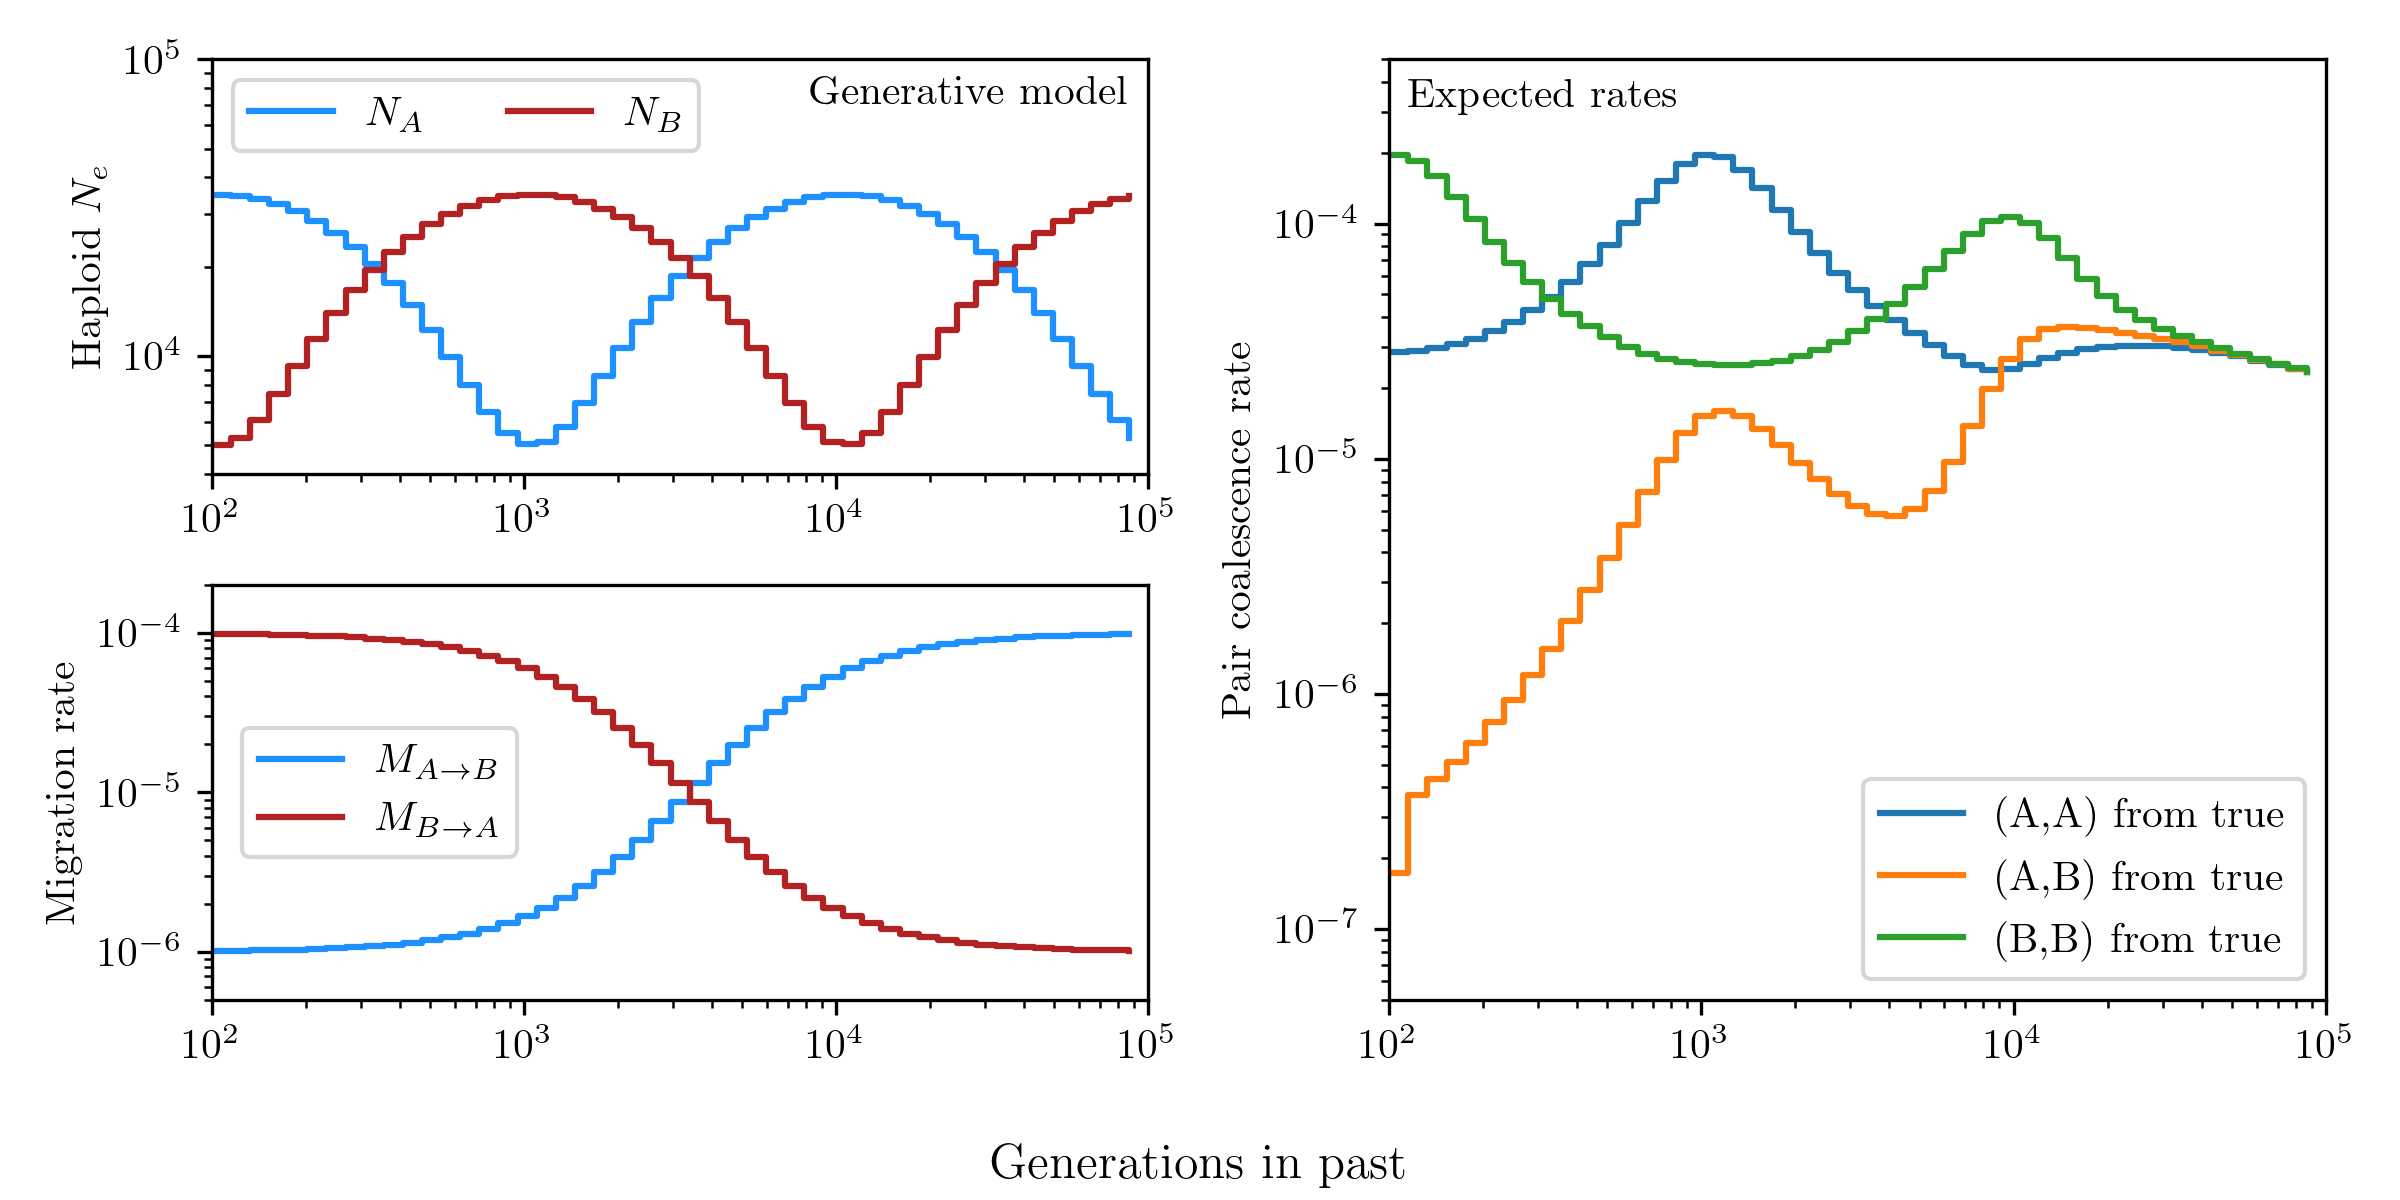
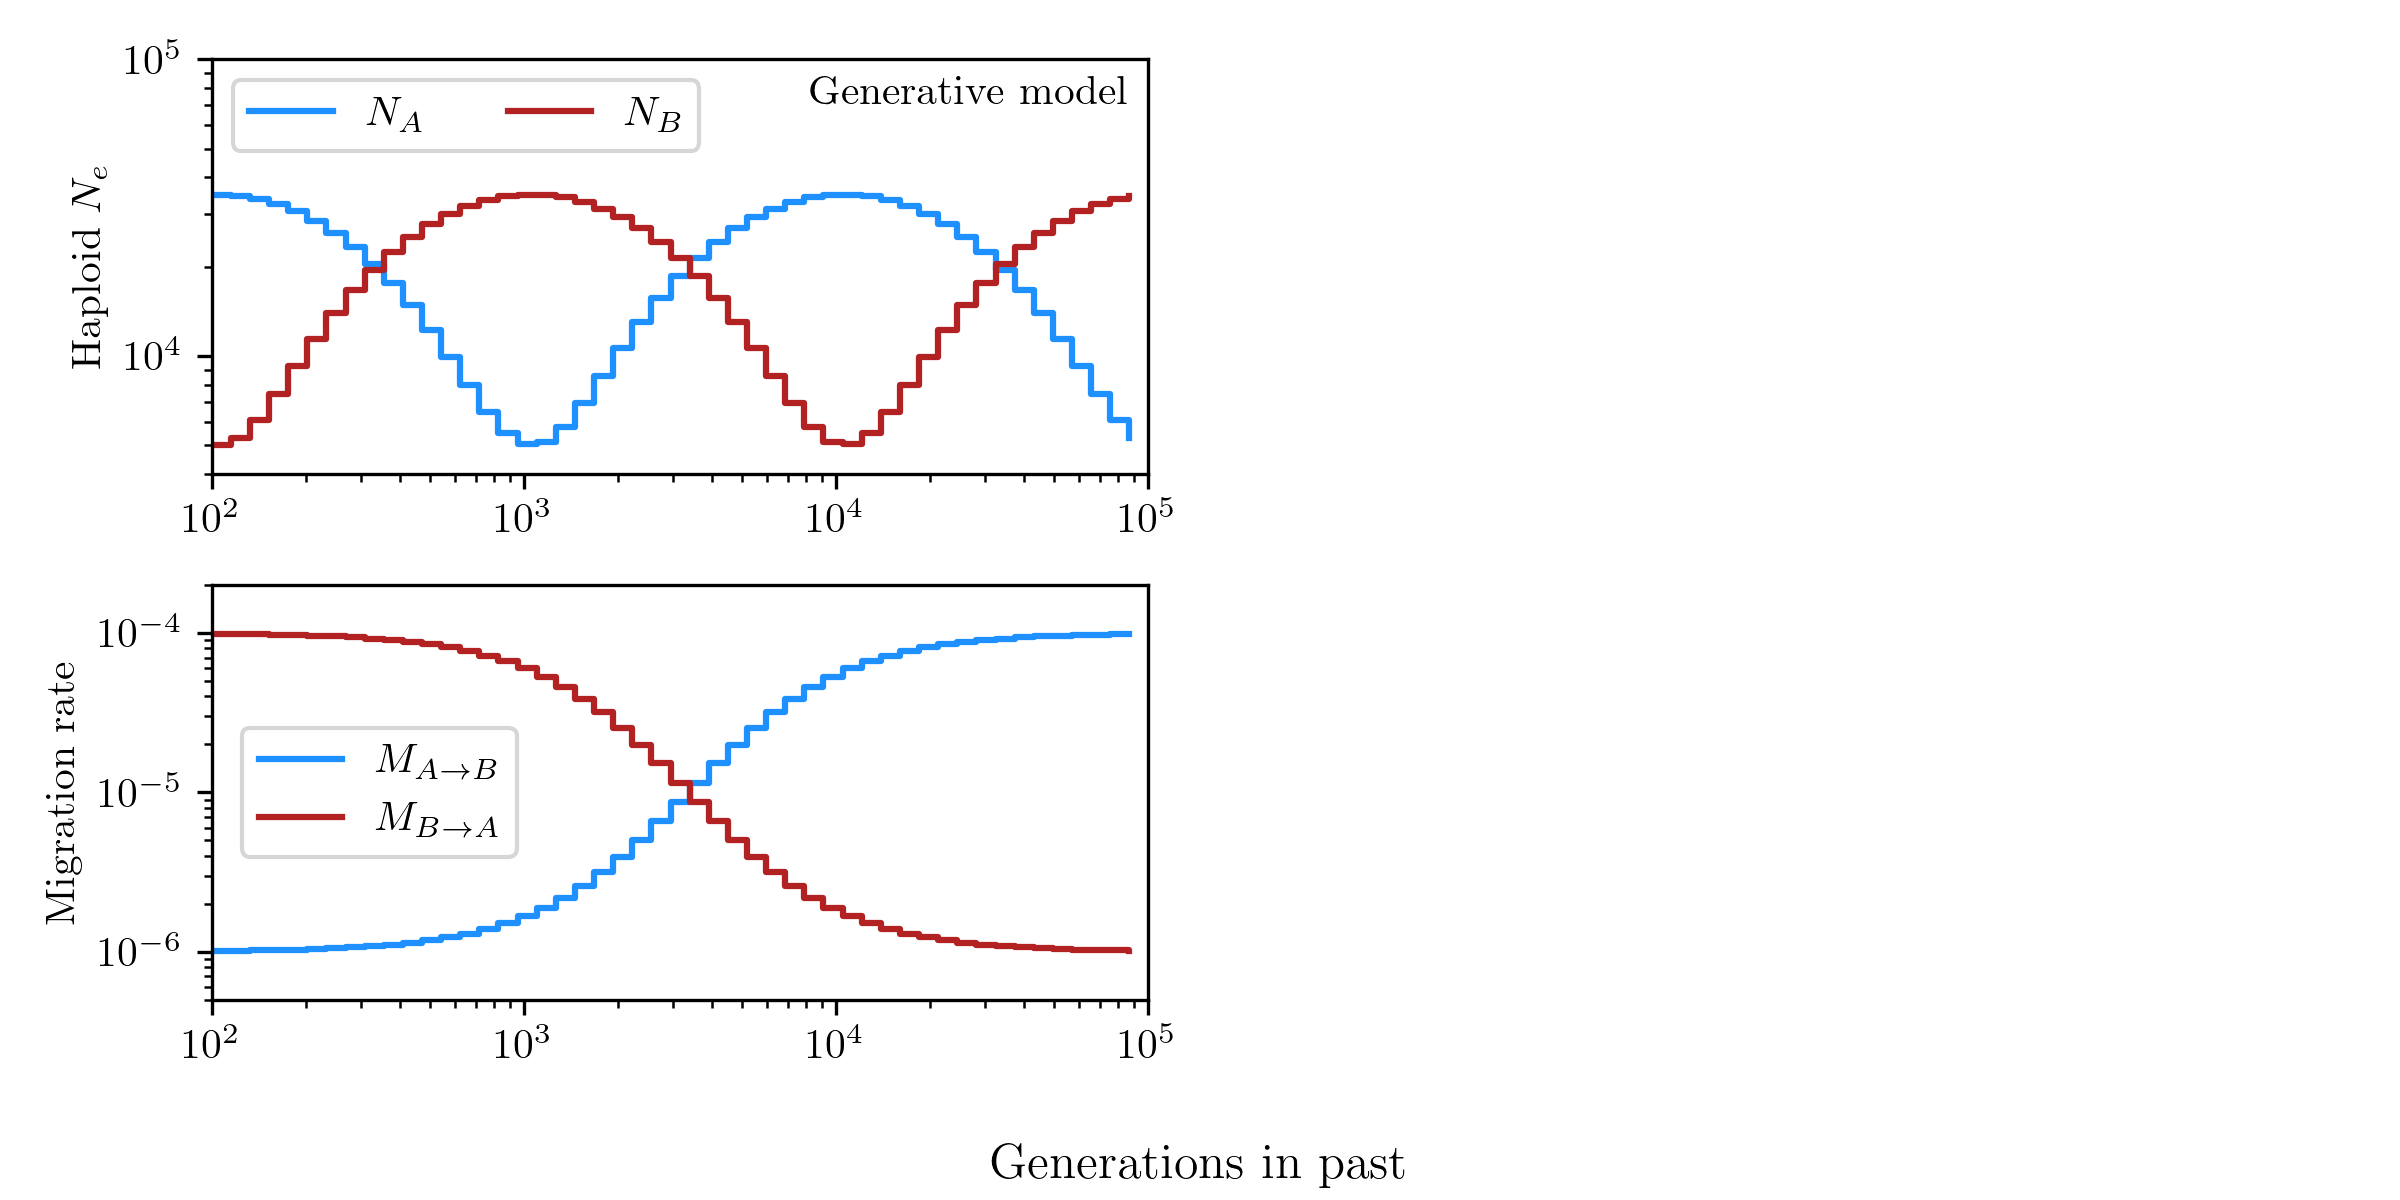
Progress

diff --git a/slides.html b/slides.html
@@ -11,7 +11,7 @@
   <meta name="generator" content="quarto-1.5.57">
 
   <meta name="author" content="Nate Pope">
-  <title>Inferring complex demographic histories from coalescence time distributions</title>
+  <title>Inferring complex demographic histories from ARG-derived coalescence time distributions</title>
   <meta name="apple-mobile-web-app-capable" content="yes">
   <meta name="apple-mobile-web-app-status-bar-style" content="black-translucent">
   <meta name="viewport" content="width=device-width, initial-scale=1.0, maximum-scale=1.0, user-scalable=no, minimal-ui">
@@ -328,7 +328,7 @@
 <section id="title-slide" class="quarto-title-block center">
 
 <div>
-  <h2 class="title">Inferring complex demographic histories from coalescence time distributions</h2>
+  <h2 class="title">Inferring complex demographic histories from ARG-derived coalescence time distributions</h2>
 </div>
 
 <hr style="background-color: #333">
@@ -429,6 +429,9 @@ Nov 12, 2024
 <p><img data-src="fig/arg-3d/arg-3d-4.png" class="fragment current-visible"></p>
 <p><img data-src="fig/arg-3d/arg-3d-5.png" class="fragment current-visible"></p>
 <p><img data-src="fig/arg-3d/arg-3d-6.png" class="fragment current-visible"></p>
+<p><img data-src="fig/arg-3d/node-view-0.png" class="fragment current-visible"></p>
+<p><img data-src="fig/arg-3d/node-view-1.png" class="fragment current-visible"></p>
+<p><img data-src="fig/arg-3d/node-view-2.png" class="fragment current-visible"></p>
 </div>
 <aside class="notes">
 <ul>
@@ -463,8 +466,8 @@ Nov 12, 2024
 </ul>
 </div>
 </section>
-<section id="inference-given-inferred-args" class="slide level2">
-<h2>Inference given inferred ARGs</h2>
+<section id="inference-from-inferred-args" class="slide level2">
+<h2>Inference from inferred ARGs</h2>
 <p>TODO</p>
 </section>
 <section id="coalescence-time-distributions" class="slide level2">
@@ -686,13 +689,20 @@ Nov 12, 2024
 </section>
 <section id="fitting-to-inferred-rates" class="slide level2">
 <h2>Fitting to inferred rates</h2>
+<div class="r-stack">
+<p><img data-src="fig/sim-tsinfer/emp-pair-200-0.png" class="fragment current-visible"></p>
+<p><img data-src="fig/sim-tsinfer/emp-pair-200-1.png" class="fragment current-visible"></p>
+<p><img data-src="fig/sim-tsinfer/emp-pair-200-2.png" class="fragment current-visible"></p>
+<p><img data-src="fig/sim-tsinfer/emp-pair-200-3.png" class="fragment current-visible"></p>
+<p><img data-src="fig/sim-tsinfer/emp-pair-200-4.png" class="fragment current-visible"></p>
+<p><img data-src="fig/sim-tsinfer/emp-pair-200-5.png" class="fragment current-visible"></p>
+</div>
 <aside class="notes">
 <ul>
 <li><p>This machinery can easily be extended to more constrained settings, e.g.&nbsp;multiple rates per epoch, or parameterized functions</p></li>
 <li><p>Example is a little disingenuous, b/c noise in ARG inference will swamp out detail at that temporal scale</p></li>
 <li><p>For example, true vs inferred dates</p></li>
 <li><p>So as a litmus test i’m going to use a model on a log scale. The litmus test here is to infer the directionality of migration</p></li>
-<li><p>SINGER works great, blah blah</p></li>
 </ul>
 <style type="text/css">
         span.MJX_Assistive_MathML {
@@ -705,6 +715,21 @@ Nov 12, 2024
           overflow: hidden!important;
           display:block!important;
       }</style></aside>
+</section>
+<section id="implementation-details" class="slide level2">
+<h2>Implementation details</h2>
+</section>
+<section id="implementation-api" class="slide level2">
+<h2>Implementation API</h2>
+</section>
+<section id="wip-fitting-windowed-rates" class="slide level2">
+<h2>WIP: fitting windowed rates</h2>
+</section>
+<section id="wip-fitting-spatial-rates" class="slide level2">
+<h2>WIP: fitting spatial rates</h2>
+</section>
+<section id="thank-you" class="slide level2">
+<h2>Thank you!</h2>
 <div class="quarto-auto-generated-content">
 <div class="footer footer-default">
 

diff --git a/script/sim-tsinfer/emp-pair-rates.py b/script/sim-tsinfer/emp-pair-rates.py
@@ -36,21 +36,24 @@ y_max_ra = 5e-4 if pairs_only else 3e-4
 
 #--------- get rates, etc.
 
-rate_store = f"tmp.200_rates.p"
+rate_store = f"tmp.400_rates.p"
 if not os.path.exists(rate_store) or force_overwrite:
     ts_list = [
         fetch(i, j) for i in range(5) for j in range(1, 6)
     ]
-    emp_rates, std_rates = calculate_rates(ts_list, time_grid, pairs_only=pairs_only)
-    emp_trio_rates, std_trio_rates = calculate_rates(ts_list, time_grid, pairs_only=False)
-    assert np.all(emp_rates >= 0)
-    assert np.all(std_rates >= 0)
-    assert np.all(emp_trio_rates >= 0)
-    assert np.all(std_trio_rates >= 0)
+    emp_rates, std_rates, _ = calculate_rates(ts_list, time_grid, pairs_only=pairs_only)
+    emp_trio_rates, std_trio_rates, trio_rates_dbg = calculate_rates(ts_list, time_grid, pairs_only=False)
     duration, rates, params = rates_and_demography(log_grid, pairs_only=pairs_only)
-    pickle.dump((duration, rates, params, emp_rates, std_rates), open(rate_store, "wb"))
+    _, trio_rates, _ = rates_and_demography(log_grid, pairs_only=False)
+    pickle.dump((duration, rates, trio_rates, params, emp_rates, std_rates, emp_trio_rates, std_trio_rates), open(rate_store, "wb"))
+    pickle.dump(trio_rates_dbg, open("debug.p", "wb"))
 else:
-    duration, rates, params, emp_rates, std_rates = pickle.load(open(rate_store, "rb"))
+    (duration, rates, trio_rates, params, emp_rates, std_rates, emp_trio_rates, std_trio_rates) = pickle.load(open(rate_store, "rb"))
+
+assert np.all(emp_rates >= 0)
+assert np.all(std_rates >= 0)
+assert np.all(emp_trio_rates[6:] >= 0)
+assert np.all(std_trio_rates[6:] >= 0)
 
 # ----------
 
@@ -84,29 +87,74 @@ ra_label = ra_ax.text(0.02, 0.98, "Expected rates", ha='left', va='top', transfo
 ne_label = ne_ax.text(0.98, 0.96, "Generative model", ha='right', va='top', transform=ne_ax.transAxes)
 #fig.suptitle("tsinfer 0.3.3 + tsdate 0.1.6dev\n10 Mb, 400 diploids, $\mu/r = 2$")
 fig.tight_layout()
+
+# model only
+ra_ax.set_visible(False)
 plt.savefig(output_dir + "emp-pair-200-0.png")
 
+# expected rates
+ra_ax.set_visible(True)
+plt.savefig(output_dir + "emp-pair-200-1.png")
+
+# inferred pair rates
 for art in list(ra_ax.lines): art.remove()
 ra_label.remove()
 ra_label = ra_ax.text(0.02, 0.98, "Inferred rates (tsinfer+tsdate, 400 dip)", ha='left', va='top', transform=ra_ax.transAxes)
-plot_rates_point(ra_ax, duration, emp_rates, pairs_only=pairs_only, point_kwargs={"s" : 3}, label_suffix=" from ecdf", make_legend=True)
+points = plot_rates_point(ra_ax, duration, emp_rates, pairs_only=pairs_only, point_kwargs={"s" : 3}, label_suffix=" from ecdf", make_legend=True)
 plot_rates_step(ra_ax, duration, rates, pairs_only=pairs_only, line_kwargs={"alpha" : 0.2}, label_suffix=" from true", make_legend=False)
-plt.savefig(output_dir + "emp-pair-200-1.png")
+plt.savefig(output_dir + "emp-pair-200-2.png")
+
+ra_rect = add_highlight(ra_ax, highlight=[3e4, 1e5])
+mi_rect = add_highlight(mi_ax, highlight=[3e4, 1e5])
+ne_rect = add_highlight(ne_ax, highlight=[3e4, 1e5])
+emoji = ra_ax.text(0.9, 0.8, "!?", size=14, transform=ra_ax.transAxes)
+plt.savefig(output_dir + "emp-pair-200-3.png")
+emoji.remove()
+
+# inferred trio rates
+for art in list(ra_ax.lines): art.remove()
+for art in points: art.remove()
+ra_rect.remove()
+ne_rect.remove()
+mi_rect.remove()
+points = plot_rates_point(ra_ax, duration, emp_trio_rates[6:], pairs_only=False, point_kwargs={"s" : 3}, label_suffix=" from ecdf", make_legend=True)
+plot_rates_step(ra_ax, duration, trio_rates[6:], pairs_only=False, line_kwargs={"alpha" : 0.2}, label_suffix=" from true", make_legend=False)
+ra_rect = add_highlight(ra_ax, highlight=[3e4, 1e5])
+mi_rect = add_highlight(mi_ax, highlight=[3e4, 1e5])
+ne_rect = add_highlight(ne_ax, highlight=[3e4, 1e5])
+ra_ax.set_ylim(1e-10, 1e-3)
+plt.savefig(output_dir + "emp-pair-200-4.png")
 
 # ----
 
-#fit_store = f"tmp.pair_fit.p"
-#if True: #not os.path.exists(fit_store):
-#    weights = 1 / std_rates
-#    weights[std_rates == 0] = 0
-#    #emp_params_fit, emp_rates_fit, emp_opt_traj = optimize_island_model(emp_rates, weights, duration, *initial_values(params), pairs_only=pairs_only, ftol_rel=1e-5, penalty=5.0) #for mu=3e-8
-#    emp_params_fit, emp_rates_fit, emp_opt_traj = optimize_island_model(emp_rates, weights, duration, *initial_values(params), pairs_only=pairs_only, ftol_rel=1e-4, penalty=5.0) #for mu=2e-8
-#    pickle.dump((emp_params_fit, emp_rates_fit, emp_opt_traj), open(fit_store, "wb"))
-#else:
-#    emp_params_fit, emp_rates_fit, emp_opt_traj = pickle.load(open(fit_store, "rb"))
-#
-#for art in list(mi_ax.lines): art.remove()
-#for art in list(ne_ax.lines): art.remove()
-#plot_ne_step(ne_ax, duration, emp_params_fit)
-#plot_migr_step(mi_ax, duration, emp_params_fit)
-#plt.savefig(output_dir + "test_pair_infr.png")
+fit_store = f"tmp.200_fit.p"
+if not os.path.exists(fit_store) or force_overwrite:
+    weights = 1 / std_rates
+    weights[std_rates == 0] = 0
+    emp_params_fit, emp_rates_fit, emp_opt_traj = optimize_island_model(emp_rates, weights, duration, *initial_values(params), pairs_only=pairs_only, ftol_rel=1e-4, penalty=5.0) #for mu=2e-8
+
+    emp_trio_rates[:6] = 0
+    std_trio_rates[:6] = 0
+    weights = 1 / std_trio_rates
+    weights[std_trio_rates == 0] = 0
+    weights[9] = 0 # ignore (A,B)B
+    weights[8] = 0 # ignore (A,B)B
+    emp_trio_params_fit, emp_trio_rates_fit, emp_trio_opt_traj = optimize_island_model(emp_trio_rates, weights, duration, *initial_values(params), pairs_only=False, ftol_rel=1e-4, penalty=30.0) #for mu=2e-8
+
+    pickle.dump((emp_params_fit, emp_rates_fit, emp_opt_traj, emp_trio_params_fit, emp_trio_rates_fit, emp_trio_opt_traj), open(fit_store, "wb"))
+else:
+    (emp_params_fit, 
+     emp_rates_fit, 
+     emp_opt_traj, 
+     emp_trio_params_fit, 
+     emp_trio_rates_fit, 
+     emp_trio_opt_traj) = pickle.load(open(fit_store, "rb"))
+
+for art in list(mi_ax.lines): art.remove()
+for art in list(ne_ax.lines): art.remove()
+plot_ne_step(ne_ax, duration, emp_trio_params_fit)
+mi_ax.get_legend().remove()
+plot_migr_step(mi_ax, duration, emp_trio_params_fit, legend_loc='lower left', legend_bbox=[0.3, 0.01])
+ne_label.remove()
+ne_label = ne_ax.text(0.98, 0.96, "Fitted model", ha='right', va='top', transform=ne_ax.transAxes)
+plt.savefig(output_dir + "emp-pair-200-5.png")

diff --git a/script/arg-3d/node-view.py b/script/arg-3d/node-view.py
@@ -1,0 +1,72 @@
+import tskit
+import numpy as np
+import msprime
+import matplotlib
+import matplotlib.pyplot as plt
+
+matplotlib.rcParams['figure.dpi'] = 300
+matplotlib.rc('font', **{'family': 'serif', 'serif': ['Computer Modern']})
+matplotlib.rc('text', usetex=True)
+matplotlib.rc('text.latex', preamble=r'\usepackage{amsmath} \usepackage{amsfonts}')
+
+out_dir = "../../fig/arg-3d/"
+
+
+# ---
+
+def nodes_above(ts, node):
+    traverse_up = np.full(ts.num_nodes, False)
+    traverse_up[node] = True
+    for p, c in zip(ts.edges_parent, ts.edges_child):
+        traverse_up[p] |= traverse_up[c]
+    return traverse_up
+
+def nodes_below(ts, node):
+    traverse_down = np.full(ts.num_nodes, False)
+    traverse_down[node] = True
+    for p, c in zip(ts.edges_parent[::-1], ts.edges_child[::-1]):
+        traverse_down[c] |= traverse_down[p]
+    return traverse_down
+
+
+focal_node = 200
+ts = msprime.sim_ancestry(samples=50, sequence_length=1e6, recombination_rate=1e-8, population_size=1e4, random_seed=1)
+above = nodes_above(ts, focal_node)
+below = nodes_below(ts, focal_node)
+
+fig, axs = plt.subplots(1, figsize=(6, 3))
+axs.set_xlabel("Position on sequence (Mb)")
+axs.set_ylabel("Node age")
+
+for c, l, r in zip(ts.edges_child, ts.edges_left/1e6, ts.edges_right/1e6):
+    t = ts.nodes_time[c]
+    if t > 0:
+        axs.plot((l, r), (t, t), color="gray", alpha=0.5, linewidth=0.5)
+axs.set_xlim(0, 1)
+axs.set_yscale('log')
+title = axs.set_title("``Node'' view")
+fig.tight_layout()
+plt.savefig(out_dir + "node-view-0.png")
+
+labelled_above = False
+labelled_below = False
+highlight = []
+for c, l, r in zip(ts.edges_child, ts.edges_left/1e6, ts.edges_right/1e6):
+    t = ts.nodes_time[c]
+    if c == focal_node:
+        focal, *_ = axs.plot((l, r), (t, t), color="firebrick", linewidth=1, label="Focal node")
+    elif above[c]:
+        ln, *_ = axs.plot((l, r), (t, t), color="dodgerblue", linewidth=0.5, label="On paths to roots" if not labelled_above else None)
+        highlight.append(ln)
+        labelled_above = True
+    elif below[c]:
+        ln, *_ = axs.plot((l, r), (t, t), color="forestgreen", linewidth=0.5, label="On paths to leaves" if not labelled_below else None)
+        highlight.append(ln)
+        labelled_below = True
+for art in highlight: art.set_visible(False)
+plt.savefig(out_dir + "node-view-1.png")
+
+for art in highlight: art.set_visible(True)
+axs.legend(framealpha=1.0, loc='lower left')
+title.set_text("Complex dependence structure!")
+plt.savefig(out_dir + "node-view-2.png")

diff --git a/script/sim-tsinfer/core.py b/script/sim-tsinfer/core.py
@@ -250,7 +250,7 @@ def calculate_rates(ts_list, time_grid, num_blocks=10, random_seed=1, pairs_only
     emp_rates = rates_calculator.rates()
     std_rates = rates_calculator.std_dev(num_replicates=num_blocks, random_seed=random_seed)
 
-    return emp_rates, std_rates
+    return emp_rates, std_rates, rates_calculator
 
 
 # ----
@@ -310,11 +310,11 @@ def plot_ne_step(ne_ax, duration, params, line_kwargs={}):
     ne_ax.legend(ncol=2, loc='upper left')
 
 
-def plot_migr_step(mi_ax, duration, params, line_kwargs={}):
+def plot_migr_step(mi_ax, duration, params, line_kwargs={}, legend_loc='center left', legend_bbox=(0.01, 0.5)):
     start = np.cumsum(np.append(0, duration))[:-1]
     mi_ax.step(start, params[0,1], label=r"$M_{A \rightarrow B}$", color="dodgerblue", where="post", **line_kwargs)
     mi_ax.step(start, params[1,0], label=r"$M_{B \rightarrow A}$", color="firebrick", where="post", **line_kwargs)
-    mi_ax.legend(ncol=1, loc='center left', bbox_to_anchor=(0.01, 0.5))
+    mi_ax.legend(ncol=1, loc=legend_loc, bbox_to_anchor=legend_bbox) #(0.01, 0.5))
 
 
 def plot_rates_step(ra_ax, duration, rates, pairs_only=True, colors=None, line_kwargs={}, make_legend=True, label_suffix=""):
@@ -343,16 +343,19 @@ def plot_rates_point(ra_ax, duration, rates, pairs_only=True, colors=None, point
     if colors is None:
         colors = matplotlib.rcParams['axes.prop_cycle'].by_key()['color']
         colors = [colors[i % len(colors)] for i in range(len(rate_names))]
+    points = []
     for i, label in enumerate(rate_names):
         #ra_ax.step(start / 1e3 + offset * i, rates[i], label=label + label_suffix, color=colors[i], where="post")
         pts = ra_ax.scatter(mid, rates[i], label=label + label_suffix, c=colors[i], **point_kwargs)
+        points.append(pts)
     if make_legend:
         labs = [nm + label_suffix for nm in rate_names]
         ra_ax.legend(labs, ncol=1, loc='lower right')
+    return points
 
 
 def add_highlight(axs, highlight):
-    rect = matplotlib.patches.Rectangle((highlight[0], 1e-30), highlight[1] - highlight[0], 1e30, fc = 'gray', alpha=0.3)
+    rect = matplotlib.patches.Rectangle((highlight[0], 1e-30), highlight[1] - highlight[0], 1e30, fc = 'gray', alpha=0.1)
     if highlight is not None:
         axs.add_patch(rect)
     return rect
